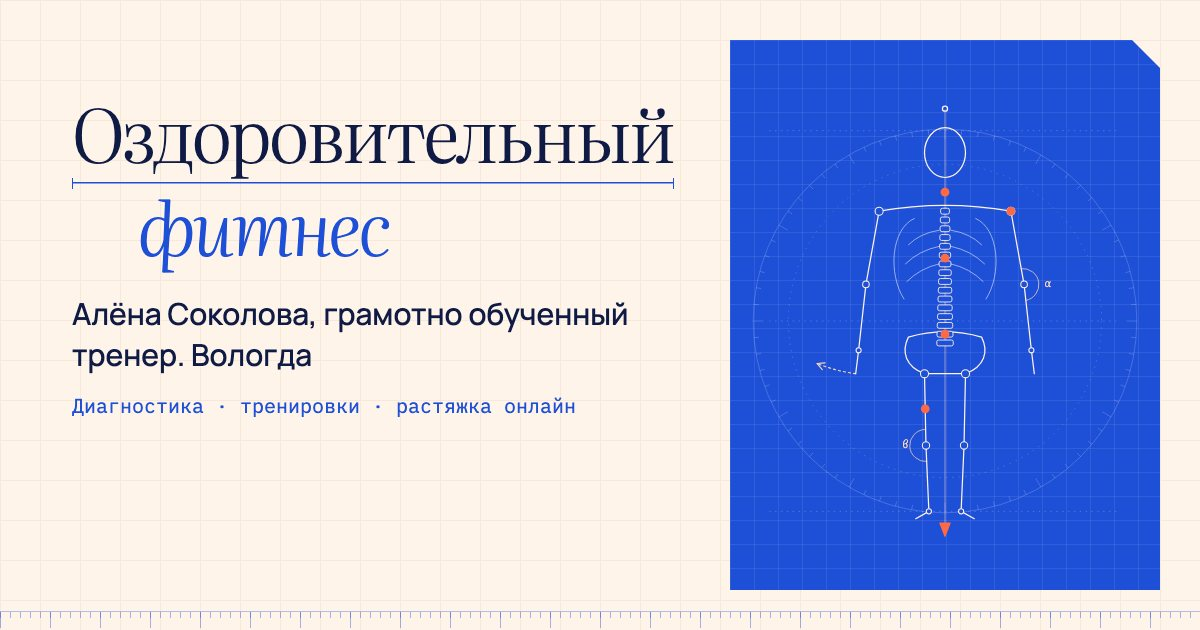
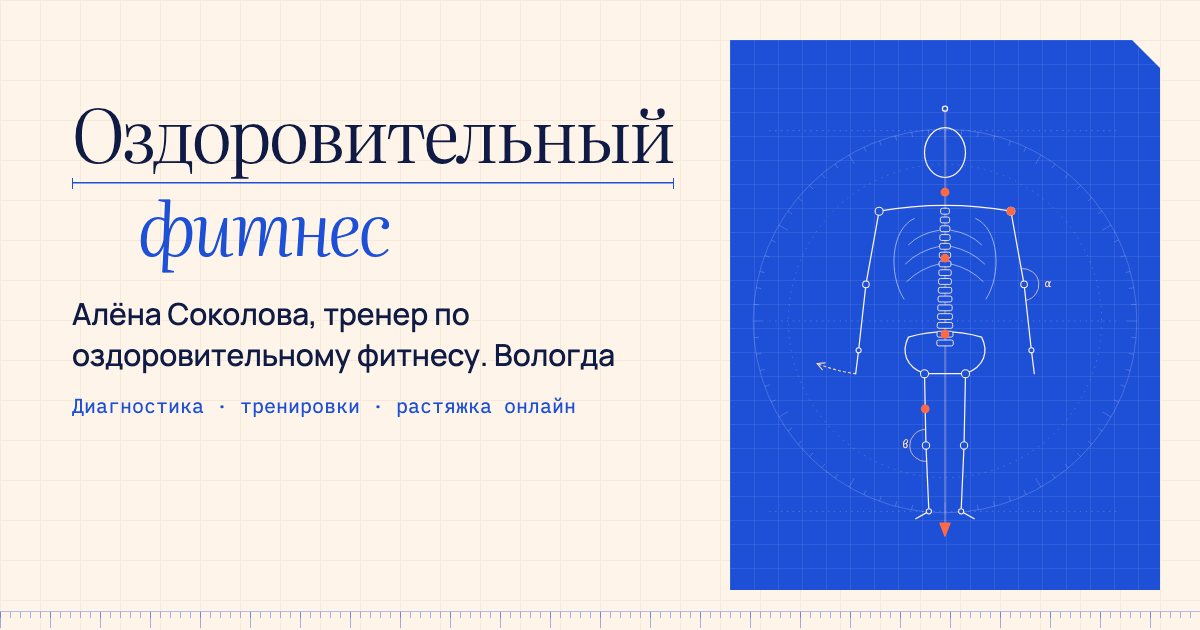
Обновить описание Алёны и названия форматов занятий

Changed region(s): [[0.0617, 0.4825, 0.5242, 0.6032]]

diff --git a/index.html b/index.html
@@ -4,7 +4,7 @@
   <meta charset="utf-8">
   <meta name="viewport" content="width=device-width, initial-scale=1, viewport-fit=cover">
   <title>Оздоровительный фитнес — Алёна Соколова, Вологда: диагностика тела, индивидуальные тренировки, растяжка онлайн</title>
-  <meta name="description" content="Алёна Соколова, грамотно обученный тренер, Вологда: диагностика всего тела, индивидуальные тренировки лично, онлайн вживую и с выездом на дом, «Фитнес-аптечка» в записи и персональные зарядки. Подберите формат и узнайте цену.">
+  <meta name="description" content="Алёна Соколова, тренер по оздоровительному фитнесу, Вологда: диагностика всего тела, индивидуальные тренировки лично, онлайн вживую и с выездом на дом, «Фитнес-аптечка» в записи и персональные зарядки. Подберите формат и узнайте цену.">
   <meta name="theme-color" content="#fff4ea">
   <link rel="canonical" href="https://candellak1.github.io/dvizhenie-v-kaif/">
   <meta property="og:type" content="website">
@@ -39,7 +39,7 @@
     "@context": "https://schema.org",
     "@type": "Person",
     "name": "Алёна Соколова",
-    "jobTitle": "Грамотно обученный тренер",
+    "jobTitle": "Тренер по оздоровительному фитнесу",
     "description": "Диагностика всего тела, индивидуальные тренировки лично и онлайн, растяжка, «Фитнес-аптечка» в записи и персональные зарядки.",
     "url": "https://candellak1.github.io/dvizhenie-v-kaif/",
     "image": "https://candellak1.github.io/dvizhenie-v-kaif/img/alena.jpg",
@@ -120,7 +120,7 @@
             <span class="hero__line">Оздоровительный</span>
             <span class="hero__line hero__line--2">фитнес</span>
           </h1>
-          <p class="hero__sub">Я&nbsp;Алёна Соколова, грамотно обученный тренер из&nbsp;Вологды.</p>
+          <p class="hero__sub">Я&nbsp;Алёна Соколова, тренер по оздоровительному фитнесу из&nbsp;Вологды.</p>
           <figure class="hero__quote">
             <blockquote><p>«Помогаю приумножить физическое здоровье и повысить качество жизни»</p></blockquote>
             <figcaption>Алёна Соколова</figcaption>
@@ -308,17 +308,18 @@
 
           <article class="plate calc" id="calc-online" aria-labelledby="calc-online-title">
             <span class="plate__tab num">Табл. 4</span>
-            <h3 id="calc-online-title">Онлайн вживую</h3>
+            <h3 id="calc-online-title">Занятия в прямом эфире</h3>
             <p class="price price--static" id="online-price">3&nbsp;000&nbsp;₽</p>
             <p class="calc__sub">За час индивидуального занятия</p>
             <p>Занимаетесь дома по видео. Я направляю вас и корректирую движения.</p>
-            <a class="btn btn--sm btn--ghost calc__action" href="#booking" data-prefill-service="Индивидуальная тренировка онлайн вживую" data-prefill-format="online">Оставить заявку</a>
+            <a class="btn btn--sm btn--ghost calc__action" href="#booking" data-prefill-service="Занятия в прямом эфире" data-prefill-format="online">Оставить заявку</a>
           </article>
 
           <article class="plate calc" id="calc-kit" aria-labelledby="calc-kit-title">
             <span class="plate__tab num">Табл. 5</span>
             <h3 id="calc-kit-title">Фитнес-аптечка</h3>
-            <p class="calc__sub">Занятия в&nbsp;записи. Отметьте программы:</p>
+            <p class="calc__sub">Короткие домашние зарядки вместо мазей и&nbsp;таблеток. Занятия в&nbsp;записи.</p>
+            <p class="calc__note">Занятия не заменяют лечение. Отметьте программы, чтобы рассчитать стоимость.</p>
             <fieldset class="kit-list">
               <legend class="sr">Программы «Фитнес-аптечки»</legend>
               <div id="kit-options"></div>
@@ -357,7 +358,7 @@
               <tr><td>Индивидуальная тренировка лично, 4 занятия</td><td>13&nbsp;000&nbsp;₽</td><td>по 3 250 ₽ за занятие</td></tr>
               <tr><td>Индивидуальная тренировка лично, 8 занятий</td><td>25&nbsp;000&nbsp;₽</td><td>по 3 125 ₽ за занятие. После 8 занятий — доступ к онлайн-банку «зарядок здоровья» на полгода</td></tr>
               <tr><td>Запись 4 персональных зарядок</td><td>19&nbsp;000&nbsp;₽</td><td>по результатам диагностики, остаются в доступе навсегда</td></tr>
-              <tr><td>Индивидуальная тренировка онлайн вживую</td><td>3&nbsp;000&nbsp;₽</td><td>за час</td></tr>
+              <tr><td>Занятия в прямом эфире</td><td>3&nbsp;000&nbsp;₽</td><td>за час</td></tr>
               <tr><td>Фитнес-аптечка, 1 программа</td><td>2&nbsp;500&nbsp;₽</td><td>доступ 4 недели, 2 500 ₽ за программу</td></tr>
               <tr><td>Фитнес-аптечка, 2 программы</td><td>4&nbsp;000&nbsp;₽</td><td>доступ 8 недель, 2 000 ₽ за программу</td></tr>
               <tr><td>Фитнес-аптечка, 3 программы</td><td>6&nbsp;000&nbsp;₽</td><td>доступ 3 месяца, 2 000 ₽ за программу</td></tr>
@@ -433,13 +434,9 @@
             <span class="plate__tab num">Досье</span>
             <figure class="dossier__photo"><img src="./img/alena.jpg" alt="Алёна Соколова" width="600" height="900" loading="lazy" decoding="async"></figure>
             <p class="dossier__name">Алёна Соколова</p>
-            <p class="dossier__role">Грамотно обученный тренер, Вологда</p>
+            <p class="dossier__role">Тренер по оздоровительному фитнесу, Вологда</p>
             <figure class="dossier__quote">
-              <blockquote><p>«Помогаю приумножить физическое здоровье и повысить качество жизни».</p></blockquote>
-              <figcaption>Алёна Соколова</figcaption>
-            </figure>
-            <figure class="dossier__quote dossier__quote--sm">
-              <blockquote><p>«Решаю проблемы: больной спины/шеи, суставных и&nbsp;мышечных дискомфортов, коррекция осанки, отёки, травмы. Подберу нагрузку под ваши возможности, переобучу нервную систему двигаться правильно»</p></blockquote>
+              <blockquote><p>«Помогаю справляться с&nbsp;дискомфортом в&nbsp;спине, шее, мышцах и&nbsp;суставах. Работаю с&nbsp;осанкой и&nbsp;подбираю нагрузку под ваши возможности».</p></blockquote>
               <figcaption>Алёна Соколова</figcaption>
             </figure>
             <p class="dossier__fact">«Сама веду, сама снимаю зарядки».</p>
@@ -663,7 +660,7 @@
     <div class="wrap"><div class="ruler ruler--end" aria-hidden="true"><span class="ruler__end num">конец страницы</span></div></div>
   </footer>
 
-  <script src="./js/offers-data.js" defer></script>
+  <script src="./js/offers-data.js?v=live-sessions" defer></script>
   <script src="./js/main.js?v=mobile-fit" defer></script>
 </body>
 </html>

diff --git a/js/offers-data.js b/js/offers-data.js
@@ -40,7 +40,7 @@
   // Лайв через экран.
   var online = {
     id: 'online',
-    title: 'Индивидуальная тренировка онлайн вживую',
+    title: 'Занятия в прямом эфире',
     hour: 3000,
     quote: 'Вы у себя дома, я вас направляю, учу двигаться правильно и корректирую.'
   };
